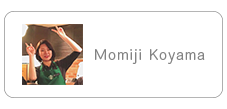
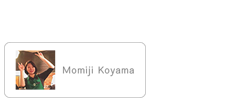
更新

Changed region(s): [[0.0, 0.1376, 0.9559, 0.9083], [0.0308, 0.0826, 0.9559, 0.1376], [0.9559, 0.1101, 0.9868, 0.8807]]

diff --git a/porta/index.html b/porta/index.html
@@ -9,10 +9,6 @@
 </head>
 <body>
 
-<div>
-  <a href="momiji-porta/index.html"><img src="img/img25.png" alt=""></a>
-</div>
-
 <div id="loginarea">
   <h1><img src="img/img04.png" alt="Porta"></h1>
   <p class="subtittle">持ち歩くポートフォリオ</p>
@@ -22,8 +18,6 @@
   <p class="subnav"><a href="page1.html">＞　登録せずに見る</a></p>
 
 </div>
-
-
 
 <script src="js/jquery-3.1.1.min.js"></script>
 <script src="js/jquery.sublimeSlideshow.js"></script>
@@ -39,4 +33,12 @@ $(function(){
 });
 </script>
 </body>
+
+<footer>
+  <div　id="nametag">
+    <h2>
+      <a href="momiji-porta/index.html"><img src="img/img25.png" alt=""></a>
+    </h2>
+  </div>
+</footer>
 </html>

diff --git a/porta/css/index.css b/porta/css/index.css
@@ -40,6 +40,12 @@ body{
 	align-items: center;
 }
 
+footer{
+	position: absolute;
+	top: -20px;
+	left: 25px;
+}
+
 #loginarea{
 	width: 363px;
 	height: 361px;
